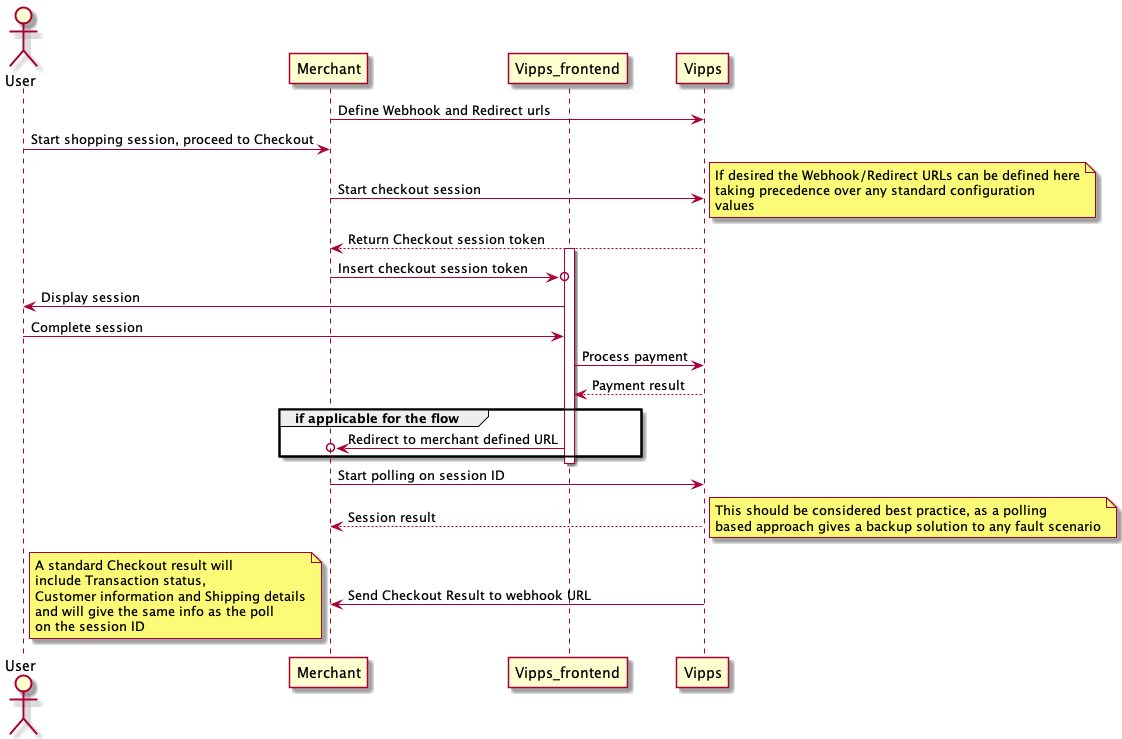
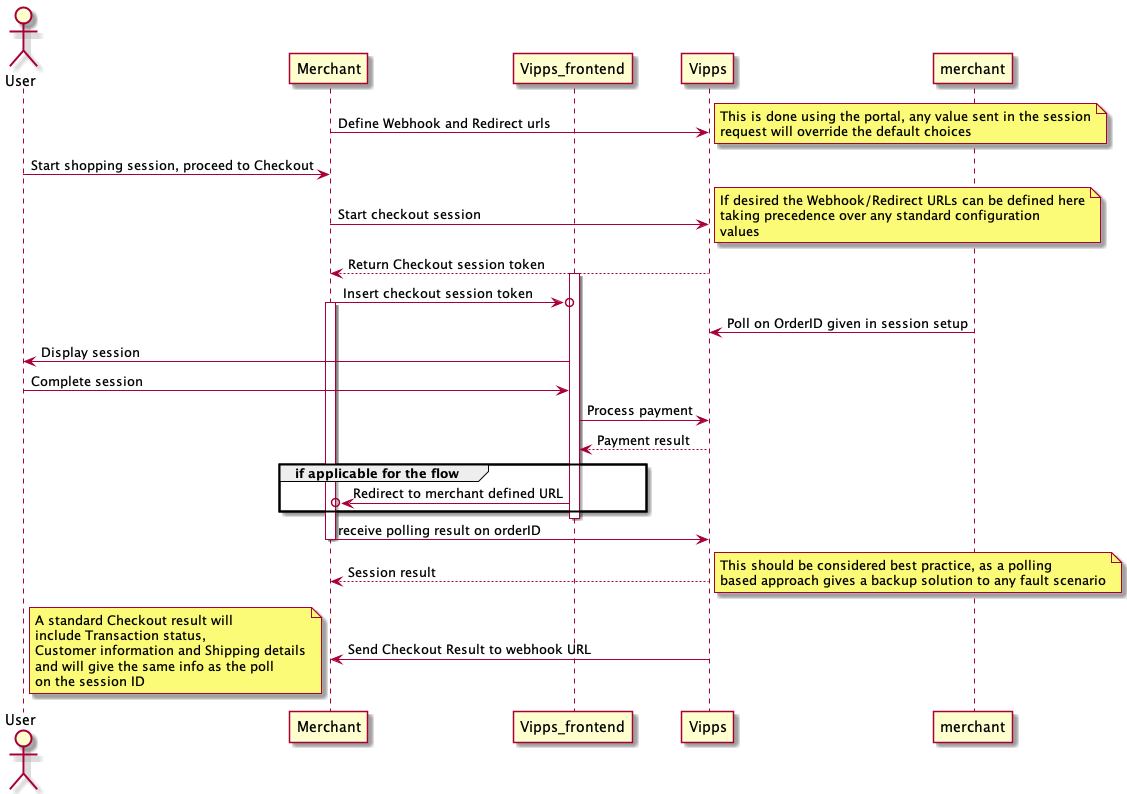
updated diagrams, added webhook example,

diff --git a/vipps-checkout-api.md b/vipps-checkout-api.md
@@ -23,7 +23,7 @@ The standard flow for a Vipps Checkout consists of
 
 # Example integration
 
-First you need to request a Vipps Checkout Session token from the Vipps APIs. The first thing you need to do is set up a server server request to set up a Checkout session. An example implementation can be found [here](www.example.com) 
+First you need to request a Vipps Checkout Session token from the Vipps APIs. The first thing you need to do is set up a server server request to set up a Checkout session. An example implementation can be found [in the example-integration](#example-integration) 
 
 Request a session token acording to your needs, the full specification of the Checkout session endpoint can be found [here](https://fantastic-fiesta-211ff2ad.pages.github.io/#/Checkout/get_Checkout)
 
@@ -104,24 +104,88 @@ The user then completes the session in the Iframe and gets redirected back to th
 
 Vipps Checkout will then send a webhook to your defined URL. 
 
-The webhook request will include all the details generated from the Checkout session
+The webhook request will include all the details generated from the Checkout session. 
 
-Example
+Example of a standard Checkout session result where the account is set for automatic capture.
 
 ```json
 {
-  "transaction": {
-    "amount": "20000",
-    "status":"Reserve",
-    "moretoCome": "https://example.com/vipps",
+  "userinfo": {
+    "sub": "c06c4afe-d9e1-4c5d-939a-177d752a0944",
+    "birthdate": "1815-12-10",
+    "email": "user@example.com",
+    "email_verified": true,
+    "nin": "10121550047",
+    "name": "Ada Lovelace",
+    "given_name": "Ada",
+    "family_name": "Lovelace",
+    "sid": "7d78a726-af92-499e-b857-de263ef9a969",
+    "phone_number": "4712345678",
+    "address": {
+        "street_address": "Suburbia 23",
+        "postal_code": "2101",
+        "region": "OSLO",
+        "country": "NO",
+        "formatted": "Suburbia 23\\n2101 OSLO\\nNO",
+        "address_type": "home"
+    },
+    "other_addresses": [
+        {
+            "street_address": "Fancy Office Street 2",
+            "postal_code": "0218",
+            "region": "OSLO",
+            "country": "NO",
+            "formatted": "Fancy Office Street 2\\n0218 OSLO\\nNO",
+            "address_type": "work"
+        },
+        {
+            "street_address": "Summer House Lane 14",
+            "postal_code": "1452",
+            "region": "OSLO",
+            "country": "NO",
+            "formatted": "Summer House Lane 14\\n1452 OSLO\\nNO",
+            "address_type": "other"
+        }
+    ],
+    "accounts": [
+        {
+            "account_name": "My savings",
+            "account_number": "12064590675",
+            "bank_name": "My bank"
+        }
+    ]
+}
   },
-  "customer": {
-    "name": "Ola Nordmann",
-    "email": "example@example.com,"
-  },
-  "shipping": {
-      "example": "example" 
-  }
+  "Transaction": {
+    "aggregate": {
+        "authorizedAmount": {
+        "currency": "NOK",
+        "type": "PURCHASE",
+        "value": 1000
+        },
+        "capturedAmount": {
+        "currency": "NOK",
+        "type": "PURCHASE",
+        "value": 1000
+        },
+    },
+    "amount": {
+        "currency": "NOK",
+        "type": "PURCHASE",
+        "value": 1000
+    },
+    "authorisationType": "FINAL_AUTH",
+    "authorised": true,
+    "autoCapture": true,
+    "customerInteraction": "CUSTOMER_NOT_PRESENT",
+    "merchantAccount": "string",
+    "paymentMethod": {
+        "type": "WALLET",
+    },
+    "redirectUrl": "https://landing.vipps.no?token=abc123",
+    "reference": "reference-string",
+    "returnUrl": "https://example.io/redirect?orderId=abcc123",
+}
 }
 
 ```
@@ -129,4 +193,4 @@ Example
 
 Our webhooks will have the following policy with the following backoff routine: --------
 
-We strongly recomend polling to ensure that you are not critically impacted by a missing webhook on 
+We strongly recomend polling to ensure that you are not critically impacted by a missing webhook. For example due to intermediate network issues. The full payload of the polling endpoint can be found at work pending... [here](https://github.com/vippsas/vipps-epayments-api/blob/main/merchant-payments.v1.yml)
